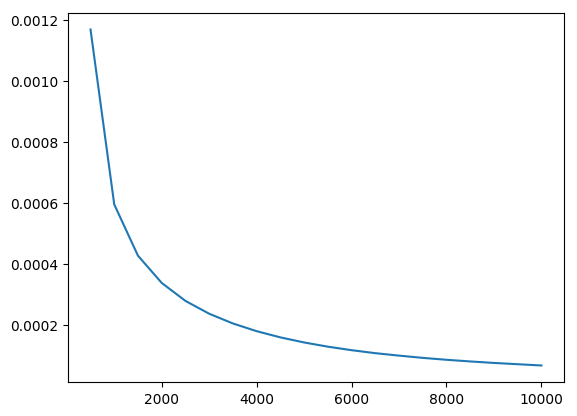
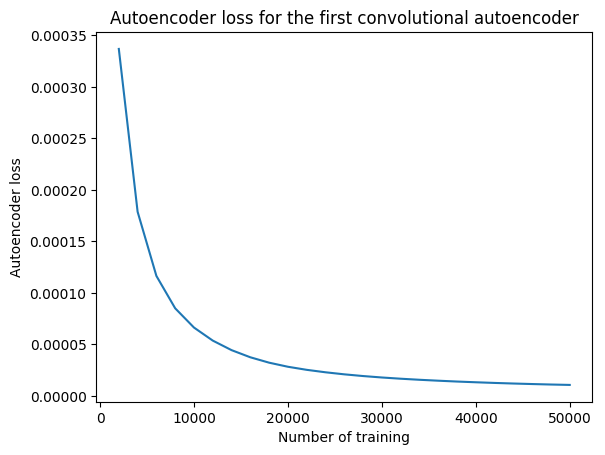
PanNet-enlarge number of training 1

Changed region(s): [[0.0, 0.0, 0.9983, 1.0], [0.312, 0.7188, 0.4055, 0.7812], [0.4055, 0.7812, 0.4991, 0.8125]]

diff --git a/PanNet1_searching_num_train1.py b/PanNet1_searching_num_train1.py
@@ -16,7 +16,7 @@ np.random.seed(123)
 # Parameters
 num_filter1 = 120
 learning_rates = 0.1
-num_training1 = 10000
+num_training1 = 50000
 
 # Default parameters
 num_input = 784
@@ -24,7 +24,7 @@ dim_input = 28
 standard_deviation = 0.1
 size_filter1 = 5
 size_batch = 100
-iter_loss = 500
+iter_loss = 2000
 
 def weight_variable(shape, name):
     initial = tf.truncated_normal(shape, stddev = standard_deviation, seed = 123)
@@ -69,8 +69,11 @@ for i in range(num_training1):
         j = j + 1
 
 plt.plot([(k+1)*iter_loss for k in range(int(num_training1/iter_loss))], loss1_data)
+plt.xlabel('Number of training')
+plt.ylabel('Autoencoder loss')
+plt.title('Autoencoder loss for the first convolutional autoencoder')
 
 saver = tf.train.Saver()
 saver.save(sess, './PanNet1_train1')
-np.savetxt('loss.txt', loss1_data)
+np.savetxt('loss1.txt', loss1_data)
 plt.savefig('PanNet1_train1.png', bbox_inches='tight')
